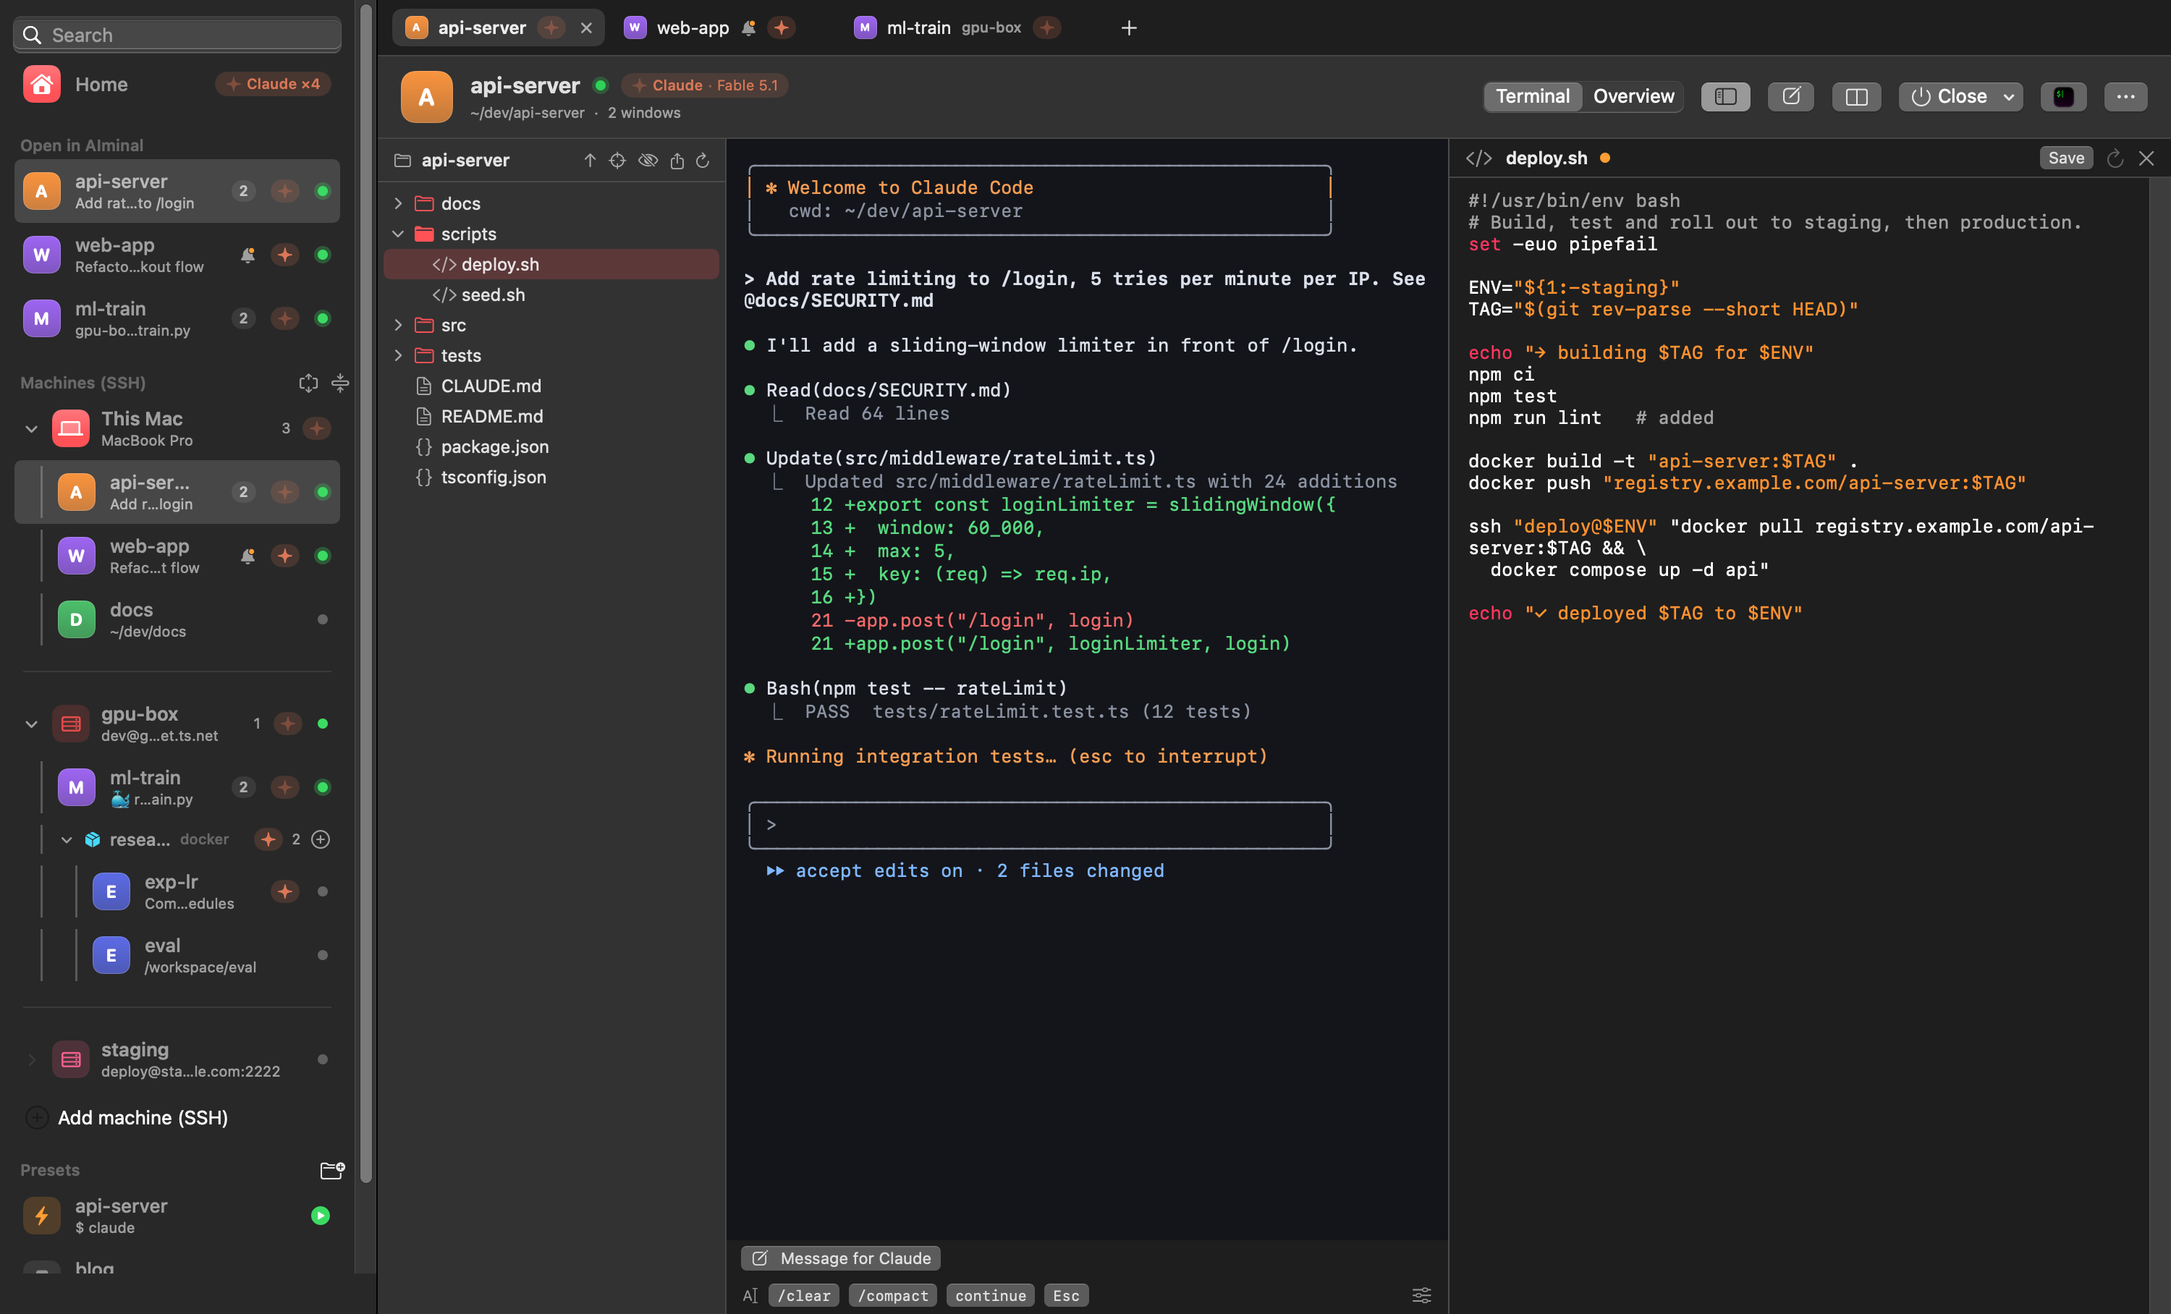
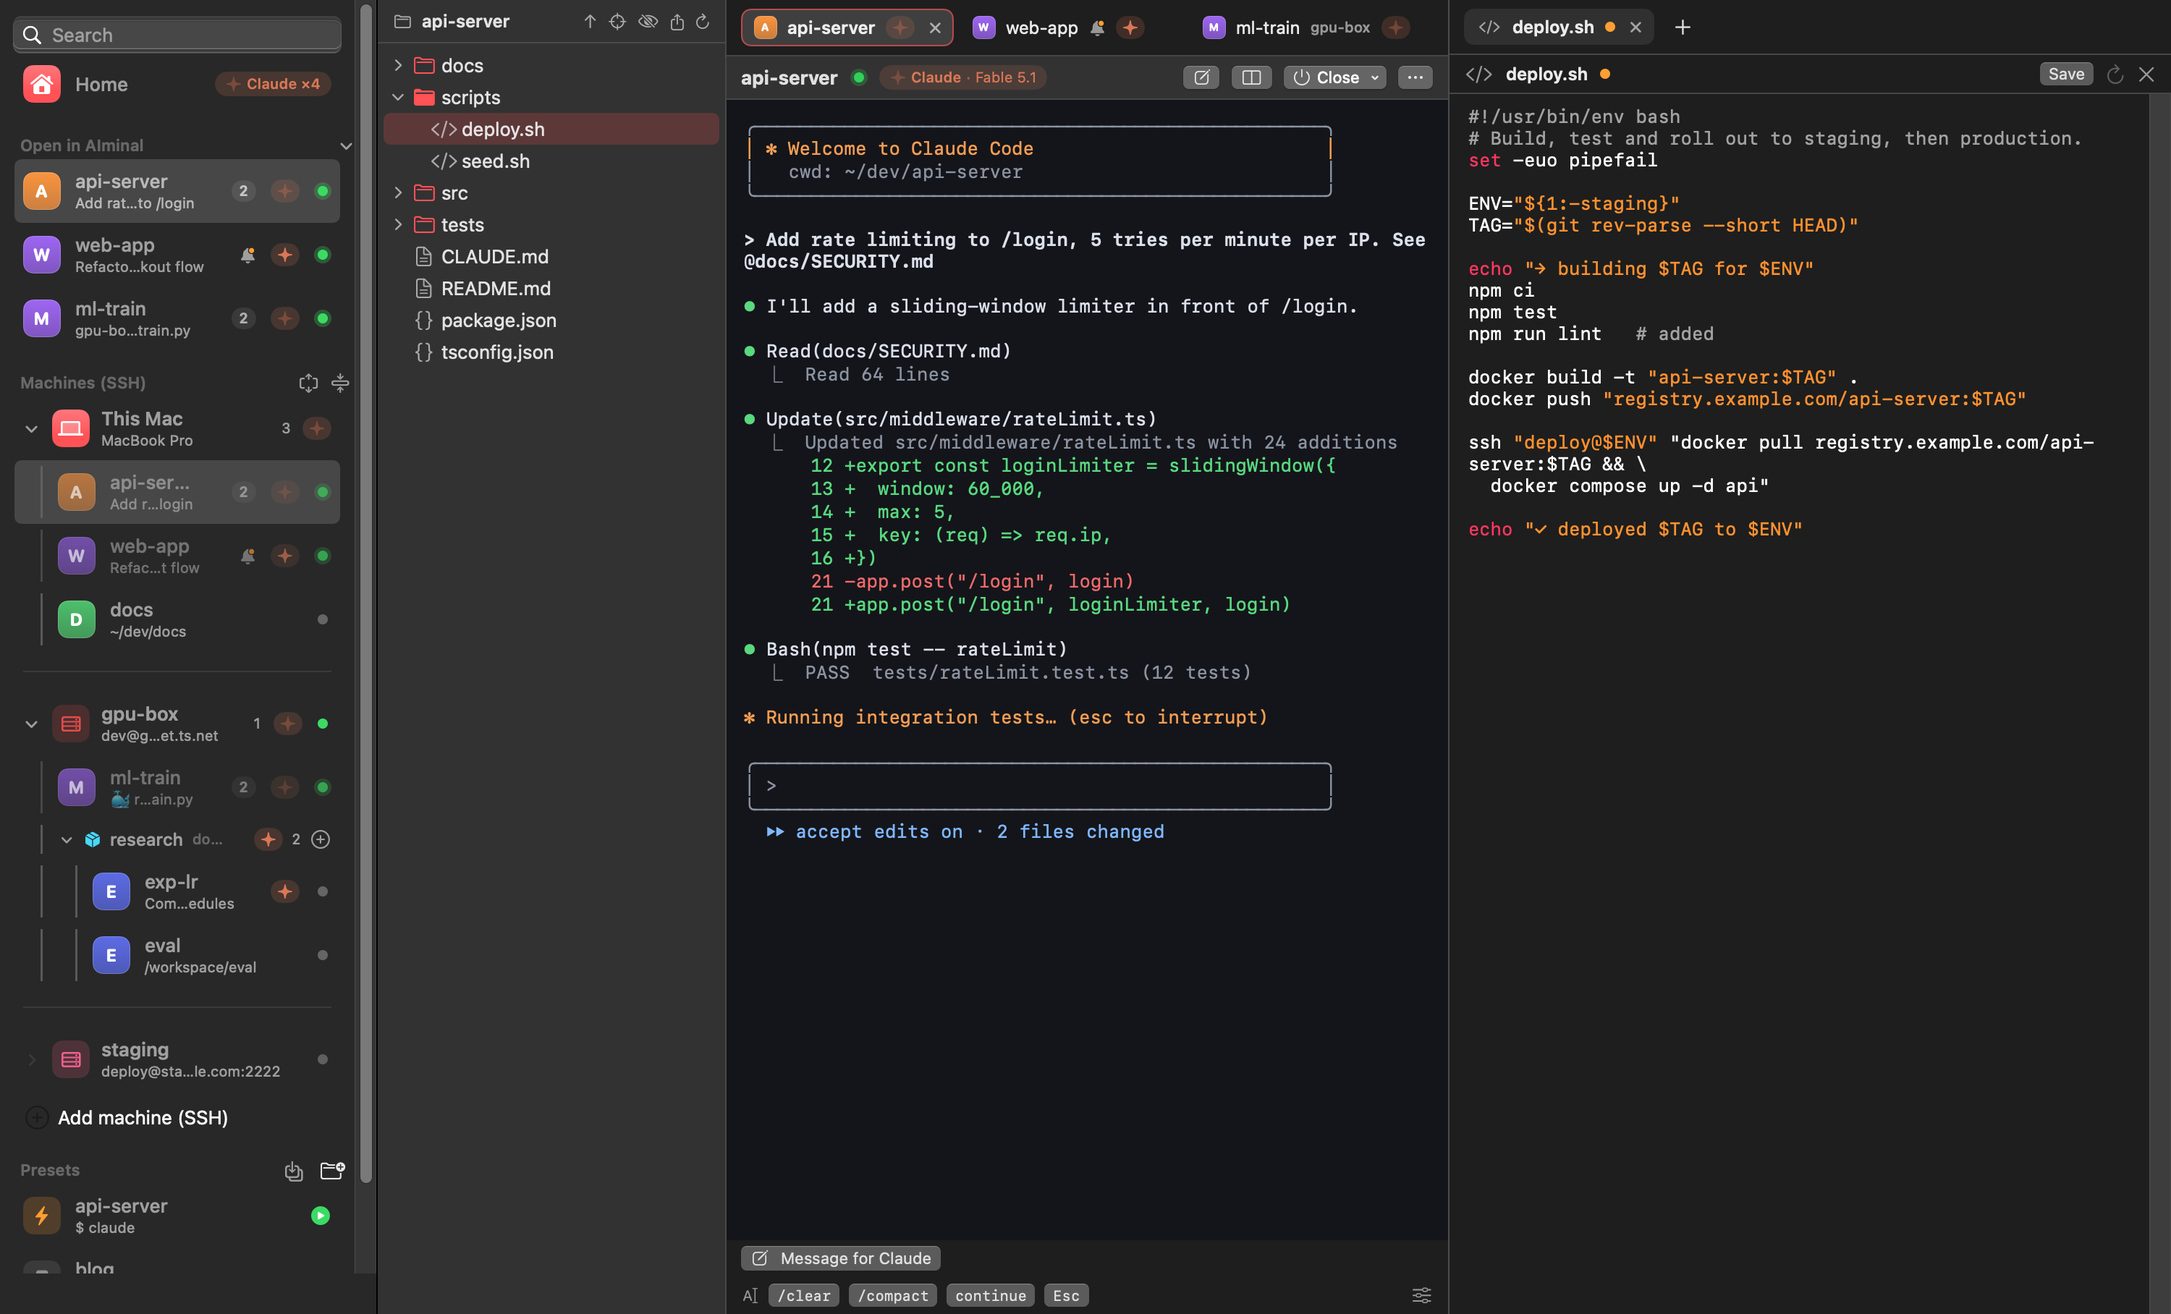
AIminal 0.13.0-beta

diff --git a/README.ko.md b/README.ko.md
@@ -28,7 +28,7 @@
 | 🗂 **터미널 옆 파일 트리** | ⇧⌘E (숨김 파일: ⇧⌘.). 세션의 폴더를 따라감. Mac·서버·컨테이너 모두. 파일을 오른쪽 클릭해 Claude에게 `@경로`로 넘기기 |
 | ✏ **vim 없이 파일 편집** | `.md`, `.html`, `.sh`, `.py`, `.json`, `.yaml`… 더블클릭하면 터미널 옆에 구문 색상과 함께 열림. Markdown·HTML 미리보기, ⌘S로 서버에 바로 저장 |
 | ⬇⬆ **다운로드와 업로드** | 오른쪽 클릭으로 파일·폴더를 원하는 폴더에 내려받고, Finder에서 끌어다 올리기. 크기·퍼센트 진행률과 취소 버튼 |
-| 🪟 **터미널 나란히** | ⌘D, 나누기 버튼, 또는 탭을 터미널 위로 드래그. 좌우 또는 위아래, 최대 여섯 칸, 가름선을 끌어 크기 조절. 두 서버의 Claude를 동시에 지켜보기 |
+| 🪟 **칸마다 탭 줄이 있는 나란히 보기** | ⌘D, 나누기 버튼, 또는 탭을 다른 칸으로 드래그. 좌우 또는 위아래, 최대 여섯 칸, 가름선을 끌어 크기 조절. 두 서버의 Claude를 동시에 지켜보기 |
 | ⏱ **시계와 머신 상태** | 툴바에 시각·날짜·이 Mac의 CPU·메모리, 서버 화면에는 그 서버의 부하·메모리·GPU별 사용률과 온도 |
 | 🔍 **클릭한 패널만 확대** | ⌘= / ⌘-가 마지막에 클릭한 터미널·칸·글상자·편집기·파일 트리만 키우고 줄임 |
 | 🐳 **docker 컨테이너도 일급** | 컨테이너에 대신 들어가고, 그 안의 tmux 세션을 찾아 탭으로 열고, 안에 새 세션도 만들어줌 |
@@ -43,7 +43,7 @@
 <img src="screenshots/home.gif" alt="홈: 모든 tmux 세션이 실시간 미리보기 카드로, Claude가 끝나면 카드에 종과 완료 칩">
 
 ### 두 머신을 나란히
-내 Mac의 Claude와 GPU 서버 컨테이너 안의 Claude를 옆에 나란히. 탭을 터미널 위로 끌거나, ⌘D를 누르거나, 나누기 버튼을 쓰면 됩니다. 최대 여섯 칸, 가름선을 끌어 크기 조절, ⌘=는 클릭한 칸만 확대. 칸마다 **Claude에게 보낼 글** 상자가 따로 있습니다.
+내 Mac의 Claude와 GPU 서버 컨테이너 안의 Claude를 옆에 나란히. 칸마다 자기 탭 줄이 있습니다: 탭을 다른 칸으로 끌거나 가장자리에 놓아 새 칸을 만들고, ⌘D를 누르거나, 나누기 버튼을 쓰면 됩니다. 최대 여섯 칸, 가름선을 끌어 크기 조절, ⌘=는 클릭한 칸만 확대. 칸마다 **Claude에게 보낼 글** 상자가 따로 있습니다.
 
 <img src="screenshots/split.gif" alt="gpu-box 컨테이너 세션을 이 Mac의 Claude 옆에 열고, 가름선을 끌고, 위아래 배치로 바꾸는 모습">
 
@@ -124,7 +124,7 @@ AIminal은 그래서 만든 앱입니다:
 - **docker 컨테이너**: tmux는 서버에 두고 작업은 컨테이너 안에서. 세션이나 프리셋에 컨테이너를 지정하면 AIminal이 `docker exec`로 대신 들어감(폴더와 시작 명령까지). 컨테이너 *안에서* 도는 tmux 세션도 찾아 `docker exec -it <컨테이너> tmux attach`로 열어주고, 사이드바·홈·머신 화면에서 컨테이너 안에 새 tmux 세션을 만들 수 있음. 머신 화면에 실행 중인 컨테이너 목록
 - **파일 트리**(⇧⌘E, 기본 표시): 세션의 폴더를 따라가는 폴더 트리가 터미널 옆에. 이 Mac, SSH 머신, 컨테이너 안 모두. 파일을 오른쪽 클릭해 경로를 터미널에 넣기(Claude에는 `@경로`). 파일·폴더 다운로드, Finder에서 끌어다 업로드, 진행률과 취소
 - **내장 편집기**(구문 색상): 텍스트 파일(`.md`, `.html`, `.sh`, `.py`, `.json`, `.yaml`, …)을 더블클릭하면 터미널 옆에 열림. Markdown·HTML은 실시간 미리보기. ⌘S로 머신이나 컨테이너에 다시 저장하고, 연 뒤 파일이 바뀌었으면 경고. 그 밖의 파일은 해당 앱으로, SSH 머신이면 VS Code Remote로
-- **나란히 보기**: ⌘D로 지금 터미널 옆에 새 터미널(⇧⌘D는 아래). 머리줄의 나누기 버튼으로 어떤 탭이나 세션이든 옆에 열고, 탭을 터미널 위로 드래그해도 됨. 터미널과 파일을 최대 여섯 개까지, 좌우 또는 위아래로, 가름선을 끌어 크기 조절
+- **나란히 보기**: ⌘D로 지금 터미널 옆에 새 터미널(⇧⌘D는 아래). 칸마다 자기 탭 줄이 있어(편집기 그룹처럼) 탭을 칸 사이로 끌어 옮기고, 머리줄의 나누기 버튼으로 어떤 탭이나 세션이든 옆에 엶. 터미널과 파일을 최대 여섯 칸까지, 좌우 또는 위아래로, 가름선을 끌어 크기 조절
 - **여러 줄 입력**(터미널 아래 **Claude에게 보낼 글** 버튼, 또는 ⇧⌘M): 글상자에 마크다운·코드 블록이 든 긴 프롬프트를 쓰고, 미리 본 뒤 ⌘↩로 Claude에게 메시지 하나로 보내기
 - **스니펫**: 터미널 아래 버튼 한 번으로 글자 입력(`/clear`, `/compact`, …)
 - **tmux 관리**: 세션 만들기, 세션·창 이름 바꾸기, 창 만들기·닫기

diff --git a/README.md b/README.md
@@ -28,7 +28,7 @@
 | 🗂 **File tree beside the terminal** | ⇧⌘E (hidden files: ⇧⌘.). Follows the session's folder, on your Mac, servers and containers. Right-click a file to hand it to Claude as `@path` |
 | ✏ **Edit files without vim** | Double-click a `.md`, `.html`, `.sh`, `.py`, `.json`, `.yaml`… to open it next to the terminal, with syntax colors. Markdown and HTML preview, ⌘S saves straight back to the server |
 | ⬇⬆ **Download and upload** | Right-click to download a file or folder to any folder you pick, drag from Finder to upload. A progress bar with size and percent, and a Cancel button |
-| 🪟 **Terminals side by side** | ⌘D, the split button, or drag a tab onto the terminal. Side by side or stacked, up to six panes, drag the dividers to resize. Watch Claude on two servers at once |
+| 🪟 **Panes, each with its own tabs** | ⌘D, the split button, or drag a tab to another pane. Side by side or stacked, up to six panes, drag the dividers to resize. Watch Claude on two servers at once |
 | ⏱ **Clock and machine stats** | Time, date, this Mac's CPU and memory in the toolbar; each server's load, memory and every GPU's utilization and temperature on its machine page |
 | 🔍 **Zoom the panel you click** | ⌘= / ⌘- grow or shrink just the terminal, pane, message box, editor or file tree you clicked last |
 | 🐳 **Docker containers, first class** | Enter containers for you, find the tmux sessions inside them, open them in a tab, and start new ones inside |
@@ -43,7 +43,7 @@ Every tmux session on your Mac, your servers and inside their containers, as liv
 <img src="screenshots/home.gif" alt="Home: every tmux session as a card with a live preview; when Claude finishes, the card shows a bell and a Done chip">
 
 ### Two machines, side by side
-Claude on your Mac and Claude inside a container on the GPU server, next to each other. Drag a tab onto the terminal, press ⌘D, or use the split button. Up to six panes, drag the dividers, and ⌘= zooms just the pane you clicked. Each pane has its own **Message for Claude** box.
+Claude on your Mac and Claude inside a container on the GPU server, next to each other. Every pane has its own tab bar: drag a tab to another pane or to the edge for a new one, press ⌘D, or use the split button. Up to six panes, drag the dividers, and ⌘= zooms just the pane you clicked. Each pane has its own **Message for Claude** box.
 
 <img src="screenshots/split.gif" alt="A gpu-box container session opens beside the local Claude session; the divider is dragged, then the layout switches to stacked">
 
@@ -124,7 +124,7 @@ AIminal is the app I wanted for that:
 - **Docker containers**: keep tmux on the server and work inside a container. A session or preset can name a container, and AIminal runs `docker exec` into it for you (with your folder and startup command). AIminal also finds the tmux sessions running *inside* each container, opens them with `docker exec -it <container> tmux attach`, and starts new ones inside the container from the sidebar, Home or the machine page. Each machine page lists its running containers
 - **File tree** (⇧⌘E, shown by default): a folder tree beside the terminal that follows the session's folder, on this Mac, SSH machines and inside containers. Right-click a file to type its path into the terminal (as `@path` for Claude). Download files and folders, or drag them in from Finder to upload, with a progress bar and Cancel
 - **Built-in editor** with syntax colors: double-click a text file (`.md`, `.html`, `.sh`, `.py`, `.json`, `.yaml`, …) to open it next to the terminal. Markdown and HTML have a live preview. ⌘S saves back to the machine or container, and AIminal warns you if the file changed since you opened it. Other files open in their app, or in VS Code Remote on SSH machines
-- **Side by side**: ⌘D opens a new terminal beside the current one (⇧⌘D below it). The split button in the header also opens any tab or session beside it, and you can drag a tab onto the terminal. Up to six terminals and files, side by side or stacked, with draggable dividers
+- **Side by side**: ⌘D opens a new terminal beside the current one (⇧⌘D below it). Each pane has its own tab bar, like editor groups: drag tabs between panes, or use the split button in the header to open any tab or session beside it. Up to six panes of terminals and files, side by side or stacked, with draggable dividers
 - **Multi-line input** (the **Message for Claude** button under every terminal, or ⇧⌘M): write a long prompt with Markdown and code blocks in a box under the terminal, preview it, and send it to Claude as one message with ⌘↩
 - **Snippets**: one-click buttons under the terminal that type text for you (`/clear`, `/compact`, …)
 - **Manage tmux**: create sessions; rename sessions and windows; create and close windows

diff --git a/GUIDE.md b/GUIDE.md
@@ -143,13 +143,13 @@ Nothing has to be installed on the server beyond `tar` (which every system has):
 
 ## Editing files
 
-Double-click a text file in the file tree and it opens in a pane beside the terminal, so you don't need vim for a quick change.
+Double-click a text file in the file tree and it opens as a tab in the pane beside the terminal, so you don't need vim for a quick change.
 
 - **Markdown** (`.md`) opens as a rendered preview (tables, task lists, code blocks); switch to **Edit** to change it. **HTML** has a preview too. Previews only read the file: they don't run scripts and don't load remote images or other content from the internet. Everything else (`.sh`, `.py`, `.json`, `.yaml`, `.toml`, `Dockerfile`, dotfiles, …) opens straight in the editor.
 - **⌘S** saves back to where the file lives: this Mac, an SSH machine or a container. An orange dot means unsaved changes.
 - If the file changed since you opened it (another person on the server, or Claude), AIminal asks before overwriting.
 - The editor is made for code: syntax colors for shell, Python, JavaScript/TypeScript, C-family, Go, Rust, Swift, YAML, JSON, HTML, SQL and Dockerfiles; no smart quotes or auto-correct. ⌘F finds.
-- Closing a pane with unsaved changes asks to save. Files over 5 MB or that aren't UTF-8 text don't open in the editor; right-click → Open with Default App / Open in VS Code / Open a Copy instead.
+- Closing a file with unsaved changes asks to save. Files over 5 MB or that aren't UTF-8 text don't open in the editor; right-click → Open with Default App / Open in VS Code / Open a Copy instead.
 
 ## Multi-line input
 
@@ -163,13 +163,14 @@ Typing a long prompt straight into a terminal is awkward: Enter submits, and eve
 
 Watch more than one thing at once:
 
-- **⌘D** opens a new terminal beside the current one, in the same machine and folder (**⇧⌘D** below it).
-- The **split button** in the session header opens a new terminal, any open tab, or any session that isn't open yet beside the current one, and switches between **Side by Side** and **Stacked**.
-- **Drag a tab** from the tab bar onto the terminal and drop it on the highlighted area. Or right-click a tab → **Open Beside Current Tab**.
+The terminal area splits into **panes, each with its own tab bar** (like editor groups in VS Code). A pane shows one of its tabs; tabs are terminals or files.
 
-- Up to six panes: the current terminal plus five terminals or files. **Drag the divider** between panes to resize them (the split menu has **Equal Sizes**).
-- Each pane has **Go to this tab** and **✕** (closes only the pane; the tab stays open).
-- Tabs shown beside the current one are outlined in the tab bar. Every tab keeps its own layout.
+- **⌘D** opens a new terminal in a pane beside the current one, in the same machine and folder (**⇧⌘D** below it).
+- **Drag a tab** to another pane's tab bar to move it there, or to the highlighted area at the edge to give it a pane of its own. Dragging within a tab bar reorders. Right-click a tab for **Move to a New Pane** / **Move to Pane N**.
+- The **split button** in the session header does the same from a menu: new terminal beside or below, move this tab to a new pane, open another tab or a session that isn't open yet beside it, switch between **Side by Side** and **Stacked**, **Equal Sizes**, and **Merge All Panes**.
+- Files you open from the file tree become tabs in the pane next to the terminal, so the terminal stays visible.
+- Up to six panes. **Drag the divider** between panes to resize them. A pane disappears when its last tab is closed.
+- Click a pane to make it the active one: its tab is outlined, and the sidebar, the file tree, ⌘W, ⇧⌘M and ⌘↩ follow it. Home, machine and preset pages take the whole area and leave the layout as it is.
 
 ## Starting sessions and presets
 
@@ -277,7 +278,7 @@ Hold **⌘** for half a second to see all shortcuts; the tabs show their numbers
 | ⇧⌘. | Show or hide hidden files in the file tree |
 | ⇧⌘M / ⌘↩ | Show or hide the message box / send it and press Enter |
 | ⌘S | Save the file open beside the terminal |
-| ⌘D / ⇧⌘D | New terminal beside / below |
+| ⌘D / ⇧⌘D | New terminal in a pane beside / below |
 | ⌘R | Refresh |
 | ⌃⌘S | Show or hide the sidebar |
 | ⌃⌘F | Full screen |

diff --git a/CHANGELOG.md b/CHANGELOG.md
@@ -1,5 +1,29 @@
 # Changelog
 
+## 0.13.0-beta
+
+### Changed
+
+- **Panes now each have their own tab bar.** Splitting used to happen inside one tab's content area, and the layout changed whenever you switched tabs. Now the terminal area is divided into panes, like editor groups in VS Code: every pane has its tabs at the top and shows one of them
+  - **Drag a tab** to another pane's tab bar to move it, or to the edge to give it a new pane; right-click a tab for **Move to a New Pane** / **Move to Pane N**
+  - ⌘D / ⇧⌘D open a new terminal in a pane beside / below; closing a pane's last tab removes the pane
+  - **Files are tabs too**: a file opened from the file tree becomes a tab in the pane next to the terminal, with an unsaved-changes dot, and stays open when you close the terminal tab it came from
+  - The pane you click becomes the active one (outlined tab); the sidebar, the file tree, ⌘W, ⇧⌘M and ⌘↩ follow it
+  - With several panes the session header shrinks to one line; **Merge All Panes** in the split menu brings everything back into one
+- One file tree for the window, following the active pane's terminal
+- **Much lighter on shared servers**: an idle machine now costs about 0.5 KB every 3 seconds instead of tens of KB. AIminal sends only the processes under your tmux panes (not the whole server's process list), skips the session list when nothing changed, checks `docker ps`, `nvidia-smi` and Claude's session files every 15 seconds, and only looks inside containers that run tmux (all containers once a minute)
+- Large files in the editor no longer slow down typing (syntax colors catch up a moment later)
+
+### Fixed
+
+- A message box draft is no longer redrawn with the whole window on every keystroke
+- Downloading a folder that changes while it's being sent (a running training job's logs) no longer fails at the end
+- Notifications for a session you're looking at are skipped only when the main window is in front and that session is visible in any pane
+- Renaming a machine or session keeps its place in the order you dragged
+- Problems in a sheet ("Enter a session name", "already exists") now show inside the sheet instead of behind it
+- English: "1 session running", "1 error", "+1 window"
+- VoiceOver reads session cards, rows and tabs as buttons
+
 ## 0.12.29-beta
 
 A second full audit — data safety, performance, and the rough edges a first-time user hits.
